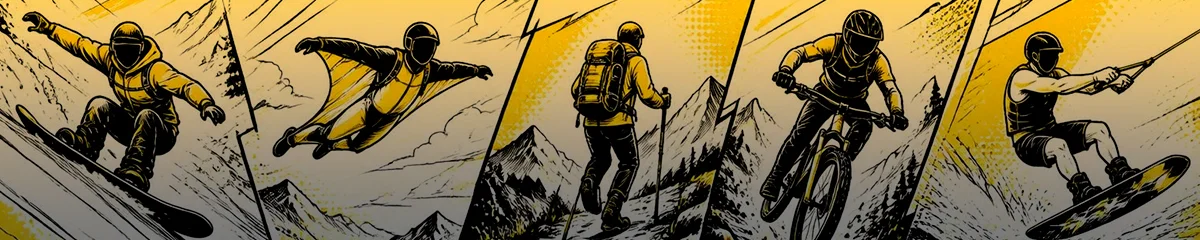
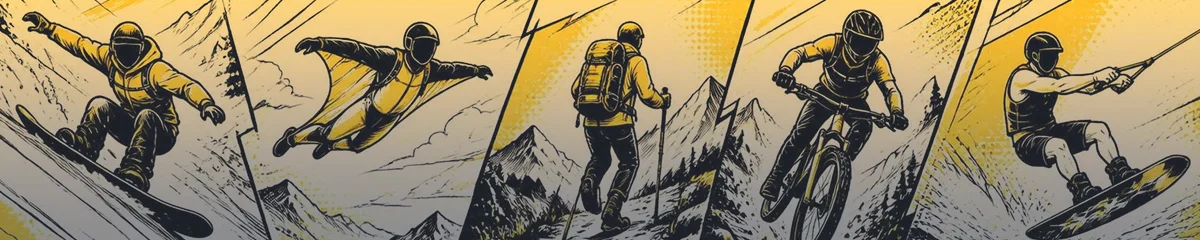
...

diff --git a/src/components/Footer.vue b/src/components/Footer.vue
@@ -17,9 +17,19 @@ const store = useAppStore()
       </div>
     </div>
     <div class="flex flex-col gap-2 pt-4 border-t border-[#d1d5db] dark:border-[#3a3d46]">
-      <a href="https://github.com/dinkana/flowhub/issues/new?template=suggest-resource.yml" target="_blank" @click="trackGoal('suggest_resource')" class="text-[#eab308] dark:text-[#fbbf24] hover:underline font-medium">
-        {{ store.t.suggest_btn }}
-      </a>
+      <div class="flex flex-wrap justify-center gap-3 text-sm">
+        <a href="https://forms.gle/Yj7kjSDQbqXzb3o77" target="_blank" rel="noopener noreferrer" @click="trackGoal('suggest_resource')" class="text-[#eab308] dark:text-[#fbbf24] hover:underline font-medium">
+          {{ store.t.suggest_resource }}
+        </a>
+        <span class="text-[#64748b] dark:text-[#94a3b8]">|</span>
+        <a href="https://forms.gle/2wmX7qjCQzaSS69F7" target="_blank" rel="noopener noreferrer" @click="trackGoal('fix_resource')" class="text-[#eab308] dark:text-[#fbbf24] hover:underline font-medium">
+          {{ store.t.fix_resource }}
+        </a>
+        <span class="text-[#64748b] dark:text-[#94a3b8]">|</span>
+        <a href="https://forms.gle/Wv3TJNuyHpcRFdtP6" target="_blank" rel="noopener noreferrer" @click="trackGoal('delete_resource')" class="text-[#eab308] dark:text-[#fbbf24] hover:underline font-medium">
+          {{ store.t.delete_resource }}
+        </a>
+      </div>
       <p>
         {{ store.t.partnership }}: <a href="mailto:1984clients@gmail.com" class="text-[#eab308] dark:text-[#fbbf24] hover:underline">1984clients@gmail.com</a>
       </p>

diff --git a/src/types/index.ts b/src/types/index.ts
@@ -32,6 +32,9 @@ export interface UIStrings {
   title: string
   search_placeholder: string
   suggest_btn: string
+  suggest_resource: string
+  fix_resource: string
+  delete_resource: string
   partner_label: string
   choose_direction: string
   back: string
